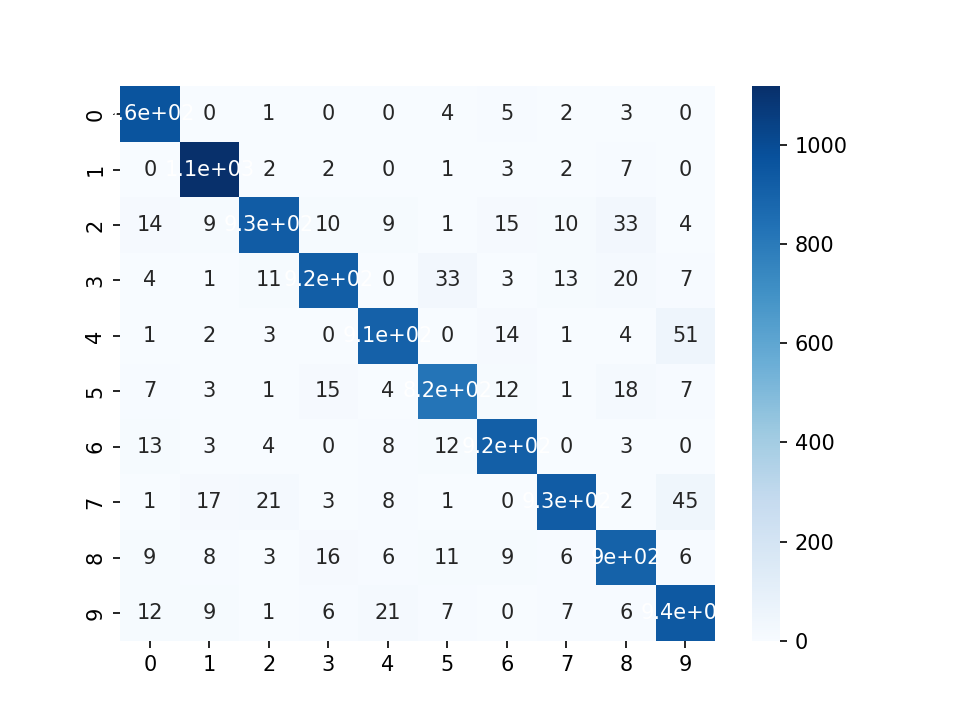
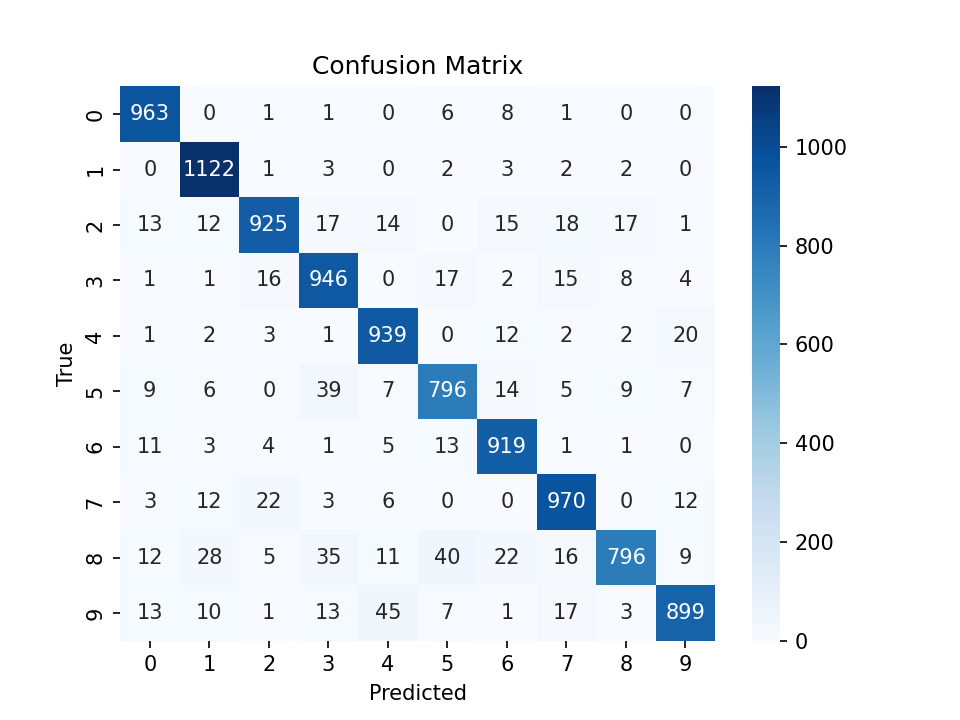
forced decimal style on the diagonal

diff --git a/src/plotting.py b/src/plotting.py
@@ -111,6 +111,15 @@ def plot_client_label_distribution(client_training_loaders):
 
 def plot_cm(cm):
     plt.figure()
-    sns.heatmap(cm, annot=True, cmap="Blues")
+    sns.heatmap(
+        cm,
+        annot = True,
+        fmt = "d",  # force integer formatting
+        cmap = "Blues",
+        annot_kws = {"size": 10}  # control number size
+    )
+    plt.xlabel("Predicted")
+    plt.ylabel("True")
+    plt.title("Confusion Matrix")
     plt.savefig("confusion_matrix.png", dpi=150)
     plt.show()
